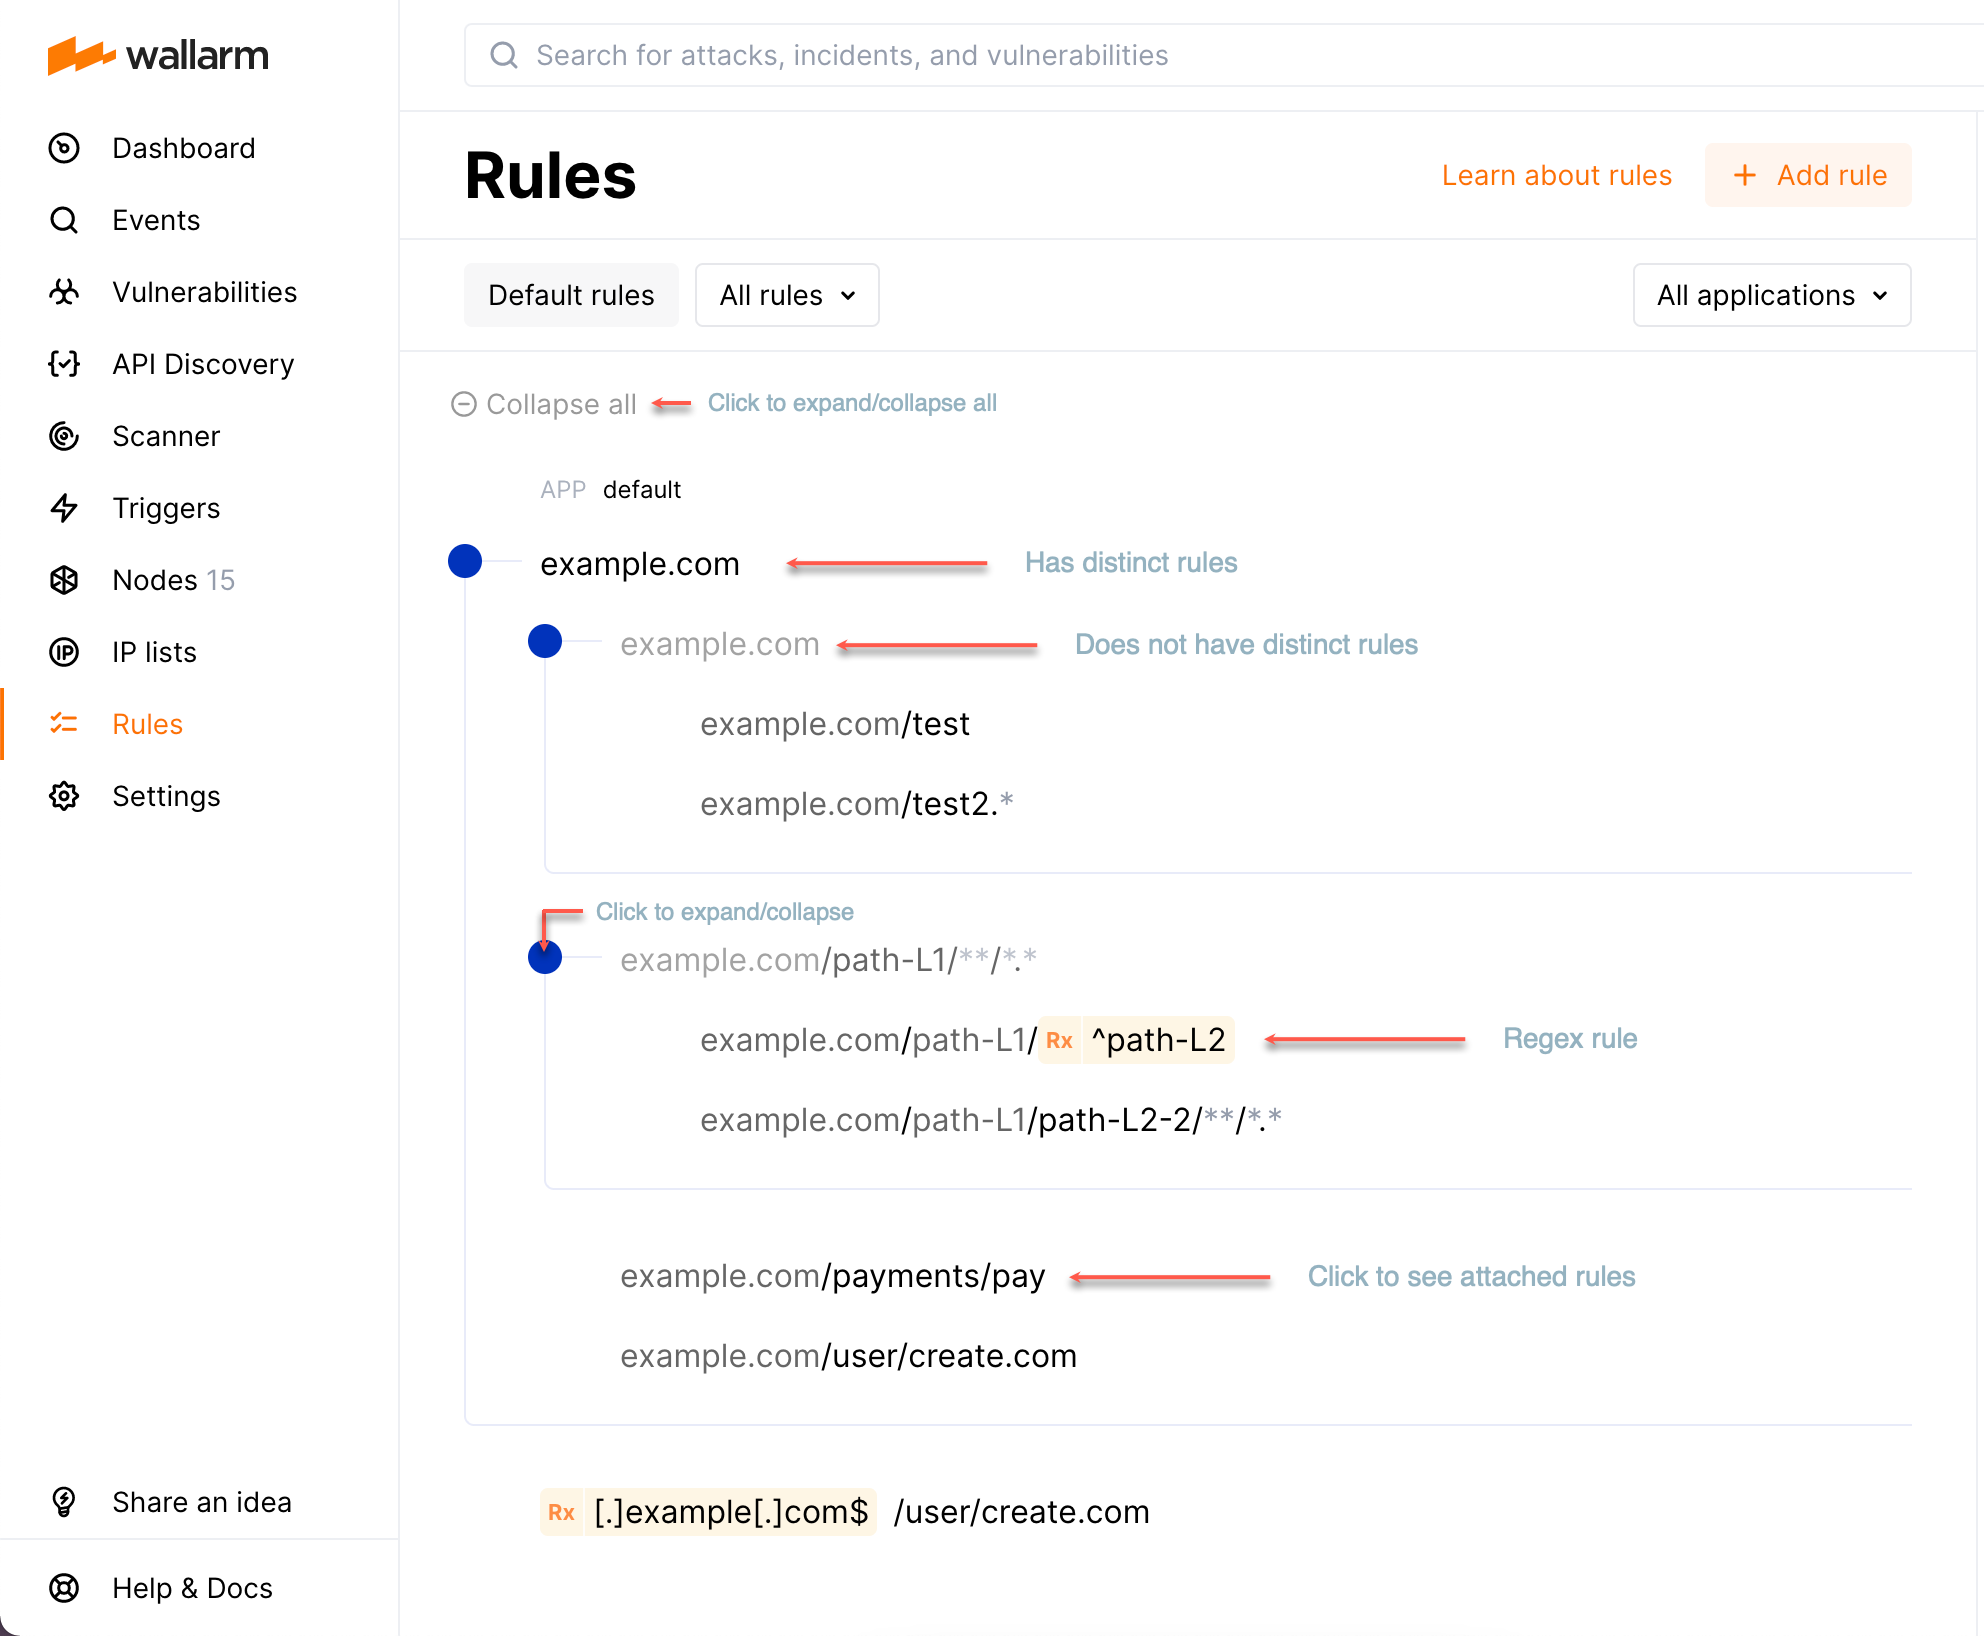
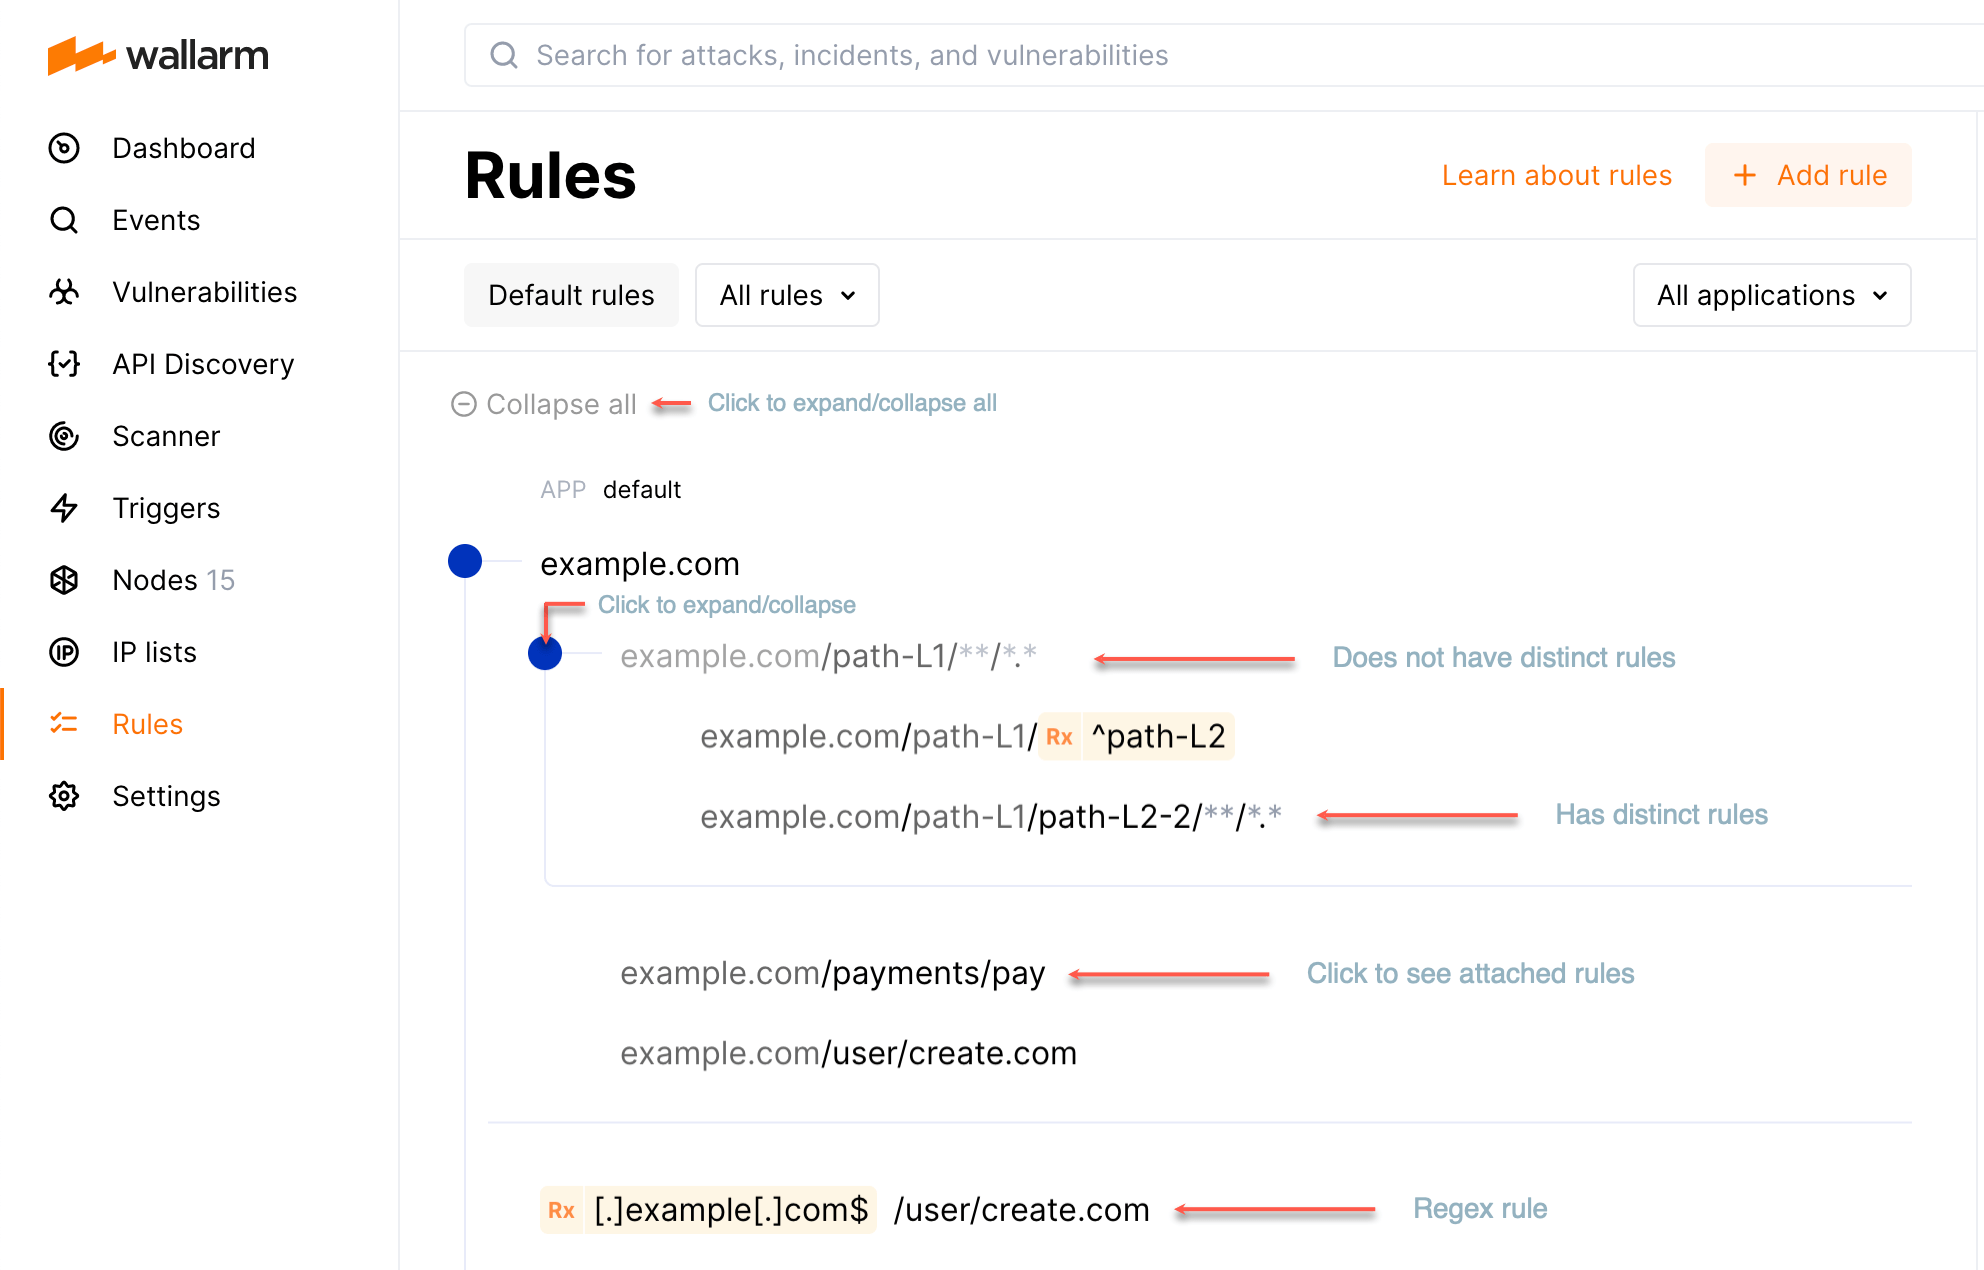
DOCS-1546 Fixed due to comments + images compressed

diff --git a/docs/latest/user-guides/rules/view.md b/docs/latest/user-guides/rules/view.md
@@ -33,10 +33,13 @@ For each rule, the system displays the following parameters: last modified time,
 
 ## Default rules
 
-You can create rules that have specified action but are not linked to any endpoint - they are called *default rules*. Such rules are applied to all endpoints.
+You can create rules with specified action but not linked to any endpoint - they are called **default rules**. Such rules are applied to all endpoints.
 
-* To create default rule, click **Add rule**, in **If request is** section, leave URI blank, set rule action in **Then** section, then save. The new rule not linked to any endpoint will be created.
+* To create default rule, during [rule creation](add-rule.md) leave URI blank. The new rule not linked to any endpoint will be created.
 * To view the list of created default rules, click the **Default rules** button.
+
+??? info "Traffic filtration mode default rule"
+    Wallarm automatically creates the `Set traffic filtration mode` rule for all clients.
 
 Default rules are [inherited](#distinct-and-inherited-rules) by all branches.
 
@@ -45,19 +48,19 @@ Default rules are [inherited](#distinct-and-inherited-rules) by all branches.
 The rules are inherited down the rules branch. Principles:
 
 * All branches inherit [default](#default-rules) rules.
-* In a branch, child endpoints inherit rules from parent.
+* In a branch, child endpoints inherit rules from the parent.
 * Distinct has priority over inherited.
-* Directly specified has priority over regex.
-* Case sensitive has priority over insensitive.
+* Directly specified has priority over [regex](add-rule.md#condition-type-regex).
+* Case [sensitive](add-rule.md#condition-type-equal) has priority over [insensitive](add-rule.md#condition-type-iequal-aa).
 
 Here are some details of how to work with the rules branch:
 
-* To expand the endpoint, click blue circle.
-* Endpoints that do not have distinct rules, are greyed out and not clickable.
+* To expand the endpoint, click the blue circle.
+* Endpoints that do not have distinct rules are greyed out and not clickable.
     
     ![!Branch of endpoints](../../images/user-guides/rules/rules-branch.png)
 
 * To view rules for the endpoint, click it. First, distinct rules for this endpoint will be displayed.
-* If necessary, click **Distinct and inherited rules**. Inherited rules will be displayed together with the distinct, they will be greyed out comparing to distinct.
+* To view rules inherited by the endpoint, click **Distinct and inherited rules**. Inherited rules will be displayed together with the distinct; they will be greyed out compared to distinct.
 
     ![!Distinct and inherited rules for endpoint](../../images/user-guides/rules/rules-distinct-and-inherited.png)
